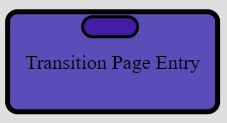
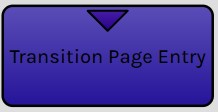
Update Documentation for new visuals of nodes.

diff --git a/DOC/doc_Dialogues.md b/DOC/doc_Dialogues.md
@@ -2,8 +2,6 @@
 
 ## 📃 Dialogue Manager Panel :
 
->Note : The documentation below contains old images from an older version of the app.
-
 > The dialogue manager panel is used to create the storyline of the game. The dialogues are represented with nodes and links.
 ># ![Dialogue Manager Panel](docimg_dialogueManagerPanel.jpg)
 > Nodes and links are seperated within pages. They are visible on the right top corner of the app.
